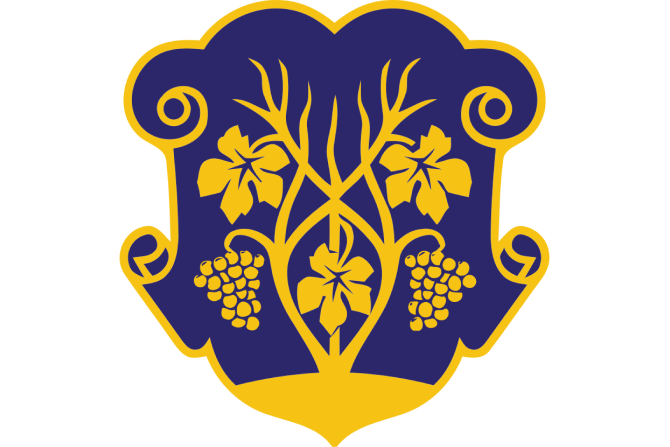
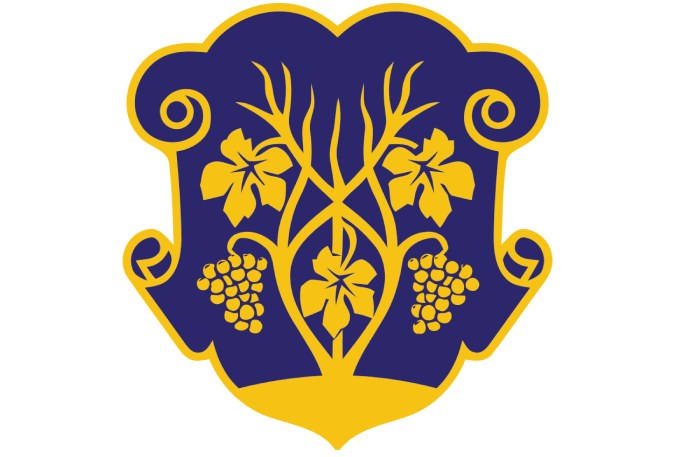
Додала деякф роути. Також на деякі сторінки посилання на банку. Змінила картинки, які були без фону

diff --git a/pages/groundTroops/MechanizedTroops/MechanizedTroops.html b/pages/groundTroops/MechanizedTroops/MechanizedTroops.html
@@ -257,7 +257,7 @@
                                     <li id="menu-item-77"
                                         class="menu-item menu-item-type-custom menu-item-object-custom menu-item-77"
                                         tabindex="0">
-                                        <a target="_blank" href="заглушка"><span>Головна</span></a>
+                                        <a target="_blank" href="/index.html"><span>Головна</span></a>
                                     </li>
                                     <li id="menu-item-22597"
                                         class="menu-item menu-item-type-post_type menu-item-object-page menu-item-22597"
@@ -269,7 +269,7 @@
                                     <li id="menu-item-56"
                                         class="menu-item menu-item-type-post_type menu-item-object-page menu-item-56"
                                         tabindex="0">
-                                        <a href="заглушка"><span>Піхота</span></a>
+                                        <a href="/pages/groundTroops/InfantryTroops/InfantryTroops.html"><span>Піхота</span></a>
                                     </li>
                                     <li id="menu-item-2416"
                                         class="menu-item menu-item-type-post_type menu-item-object-page menu-item-2416"
@@ -288,7 +288,7 @@
                                     <li id="menu-item-6363"
                                         class="menu-item menu-item-type-post_type menu-item-object-page menu-item-6363"
                                         tabindex="0">
-                                        <a href="заглушка"><span>Про нас</span></a>
+                                        <a href="/pages/About/About.html"><span>Про нас</span></a>
                                     </li>
                                     <li id="menu-item-19026"
                                         class="menu-item menu-item-type-post_type menu-item-object-page menu-item-19026"
@@ -300,7 +300,7 @@
                                     <li id="menu-item-4446"
                                         class="menu-item menu-item-type-custom menu-item-object-custom menu-item-4446"
                                         tabindex="0">
-                                        <a target="_blank" href="заглушка"><span>Фронтова авіація</span></a>
+                                        <a target="_blank" href="/pages/AirForces/FrontlineAirForces/FrontlineAirForces.html"><span>Фронтова авіація</span></a>
                                     </li>
                                     <li id="menu-item-2422"
                                         class="menu-item menu-item-type-post_type menu-item-object-page menu-item-2422"
@@ -311,7 +311,7 @@
                                     <li id="menu-item-22729"
                                         class="menu-item menu-item-type-post_type menu-item-object-page menu-item-22729"
                                         tabindex="0">
-                                        <a href="заглушка"><span>Санітарна авіація </span></a>
+                                        <a href="/pages/AirForces/SanitaryAirForces/SanitaryAirForses.html"><span>Санітарна авіація </span></a>
                                     </li>
 
                                 </ul>
@@ -321,7 +321,7 @@
                     <div class="col-12 col-md-12 col-lg-3 mb-4">
                         <p class="h3 frm_form_title">Задонать на банку!</p>
                         <div class="frm_fields_container">
-                            <a class="btn action w-100 text-center" href="заглушка" target="_blank">До перемоги !</a>
+                            <a class="btn action w-100 text-center" href="https://send.monobank.ua/jar/3sL7WymGcE" target="_blank">До перемоги !</a>
                         </div>
                     </div>
                 </div>

diff --git a/index.html b/index.html
@@ -62,7 +62,7 @@
                       class="menu-item menu-item-type-post_type menu-item-object-page menu-item-has-children menu-item-48 dropdown"
                       tabindex="0"
                     >
-                      <a href="заглшука"><span>Піхотні</span></a>
+                      <a href="/pages/groundTroops/InfantryTroops/InfantryTroops.html"><span>Піхотні</span></a>
                     </li>
                     <li
                       id="menu-item-294"
@@ -76,7 +76,7 @@
                       class="menu-item menu-item-type-post_type menu-item-object-page menu-item-has-children menu-item-260 dropdown"
                       tabindex="0"
                     >
-                      <a href="заглушка"><span>Танкові</span></a>
+                      <a href="/pages/groundTroops/TankTroops/TankTroops.html"><span>Танкові</span></a>
                     </li>
                   </ul>
                 </li>
@@ -94,21 +94,21 @@
                       class="menu-item menu-item-type-post_type menu-item-object-page menu-item-55"
                       tabindex="0"
                     >
-                      <a href="заглушка"><span>Фронтова</span></a>
+                      <a href="/pages/AirForces/FrontlineAirForces/FrontlineAirForces.html"><span>Фронтова</span></a>
                     </li>
                     <li
                       id="menu-item-213"
                       class="menu-item menu-item-type-post_type menu-item-object-page menu-item-213"
                       tabindex="0"
                     >
-                      <a href="заглушка"><span>Військово-транспортна</span></a>
+                      <a href="/pages/AirForces/MilitaryTransportAviation/militaryTransport.html"><span>Військово-транспортна</span></a>
                     </li>
                     <li
                       id="menu-item-254"
                       class="menu-item menu-item-type-post_type menu-item-object-page menu-item-has-children menu-item-254 dropdown"
                       tabindex="0"
                     >
-                      <a href="заглушка"><span>Санітарна</span></a>
+                      <a href="/pages/AirForces/SanitaryAirForces/SanitaryAirForses.html"><span>Санітарна</span></a>
                     </li>
                   </ul>
                 </li>
@@ -550,7 +550,7 @@
               <div class="frm_fields_container">
                 <a
                   class="btn action w-100 text-center"
-                  href="заглушка"
+                  href="https://send.monobank.ua/jar/3sL7WymGcE"
                   target="_blank"
                   >До перемоги !</a
                 >

diff --git a/pages/About/About.html b/pages/About/About.html
@@ -277,7 +277,7 @@
                     <div class="col-12 col-md-12 col-lg-3 mb-4">
                         <p class="h3 frm_form_title">Задонать на банку!</p>
                         <div class="frm_fields_container">
-                            <a class="btn action w-100 text-center" href="заглушка" target="_blank">До перемоги !</a>
+                            <a class="btn action w-100 text-center" href="https://send.monobank.ua/jar/3sL7WymGcE" target="_blank">До перемоги !</a>
                         </div>
                     </div>
                 </div>

diff --git a/pages/AirForces/FrontlineAirForces/FrontlineAirForces.html b/pages/AirForces/FrontlineAirForces/FrontlineAirForces.html
@@ -324,7 +324,7 @@
                     <div class="col-12 col-md-12 col-lg-3 mb-4">
                         <p class="h3 frm_form_title">Задонать на банку!</p>
                         <div class="frm_fields_container">
-                            <a class="btn action w-100 text-center" href="заглушка" target="_blank">До перемоги !</a>
+                            <a class="btn action w-100 text-center" href="https://send.monobank.ua/jar/3sL7WymGcE" target="_blank">До перемоги !</a>
                         </div>
                     </div>
                 </div>

diff --git a/pages/AirForces/SanitaryAirForces/SanitaryAirForses.html b/pages/AirForces/SanitaryAirForces/SanitaryAirForses.html
@@ -324,7 +324,7 @@
                     <div class="col-12 col-md-12 col-lg-3 mb-4">
                         <p class="h3 frm_form_title">Задонать на банку!</p>
                         <div class="frm_fields_container">
-                            <a class="btn action w-100 text-center" href="заглушка" target="_blank">До перемоги !</a>
+                            <a class="btn action w-100 text-center" href="https://send.monobank.ua/jar/3sL7WymGcE" target="_blank">До перемоги !</a>
                         </div>
                     </div>
                 </div>

diff --git a/pages/AirForces/AirForces.html b/pages/AirForces/AirForces.html
@@ -403,7 +403,7 @@
               <div class="frm_fields_container">
                 <a
                   class="btn action w-100 text-center"
-                  href="заглушка"
+                  href="https://send.monobank.ua/jar/3sL7WymGcE"
                   target="_blank"
                   >До перемоги !</a
                 >
